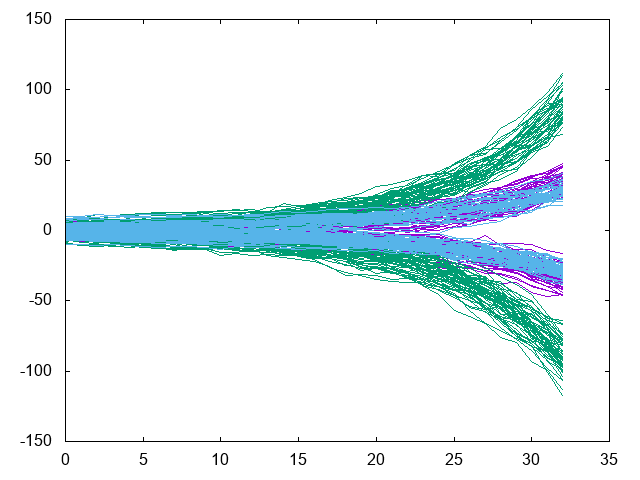
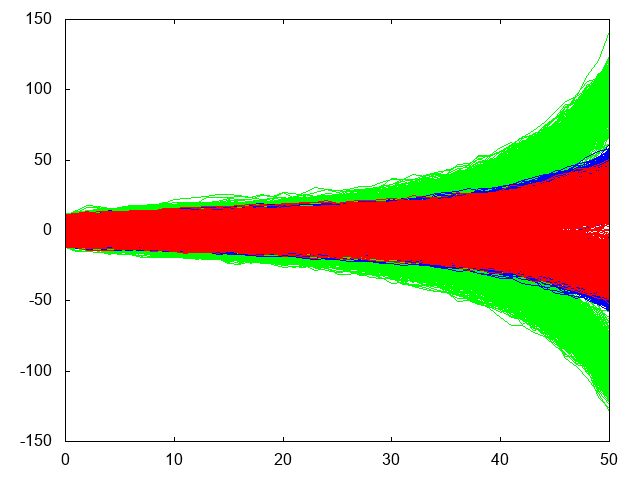
remade pics to include all bitnodes
- used C4 table for its lower count of bit nodes
- set generator(0) for same random data for all plots
- enabled last "if (1) {" in bit_node_update()
- # ./testbench 0.259 > data.txt
- plot data.txt using following commands in gnuplot:

set key off
set yrange [-150:+150]
plot for [col=9002:10801] "data.txt" using 1:col w l lt rgb "green", for [col=10802:16201] "data.txt" using 1:col w l lt rgb "blue", for [col=2:9001] "data.txt" using 1:col w l lt rgb "red"

beware, gnuplot takes ten minutes to render!

diff --git a/README.md b/README.md
@@ -26,9 +26,9 @@ by Mustafa Eroz, Feng-Wen Sun and Lin-Nan Lee - 2004
 ### Impact of the varying degrees of the bit nodes on their convergence behaviour
 
 The color on the following three plots are to be interpreted like this:
-* Green: message bitnodes with degree eight
-* Violet: message bitnodes with degree three
-* Blue: parity bitnodes with degree two
+* Red: parity bit nodes with degree two
+* Green: message bit nodes with degree eight
+* Blue: message bit nodes with degree three
 
 This is the fastest algorithm, min-sum-c, but it needs a few iterations longer to converge:
 ![min-sum-c](min-sum-c.png)
@@ -36,7 +36,7 @@ This is the fastest algorithm, min-sum-c, but it needs a few iterations longer t
 The sum-product algorithms converge much faster than the min-sum algorithms, but they involve [transcendental functions](https://en.wikipedia.org/wiki/Transcendental_function).
 ![log-sum-product](log-sum-product.png)
 
-Here we see the fastest convergence, where bitnodes go to minus or plus infinity (and sometimes back from):
+Here we see the fastest convergence, where bit nodes go to minus or plus infinity (and sometimes back from):
 ![sum-product](sum-product.png)
 
 ### [dvb_s2_tables.hh](dvb_s2_tables.hh)
